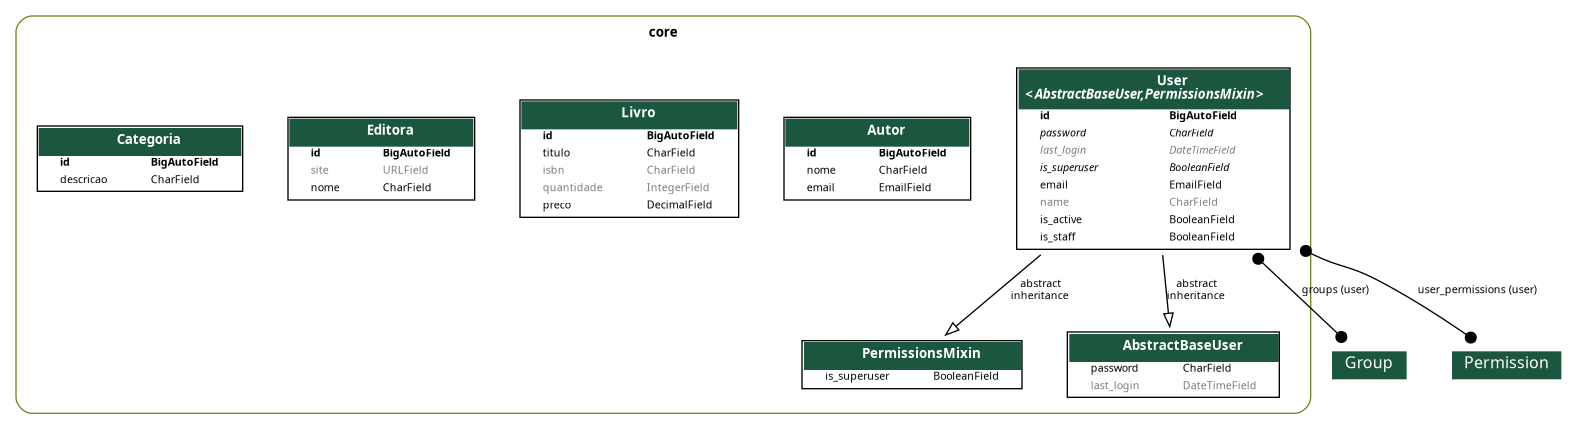
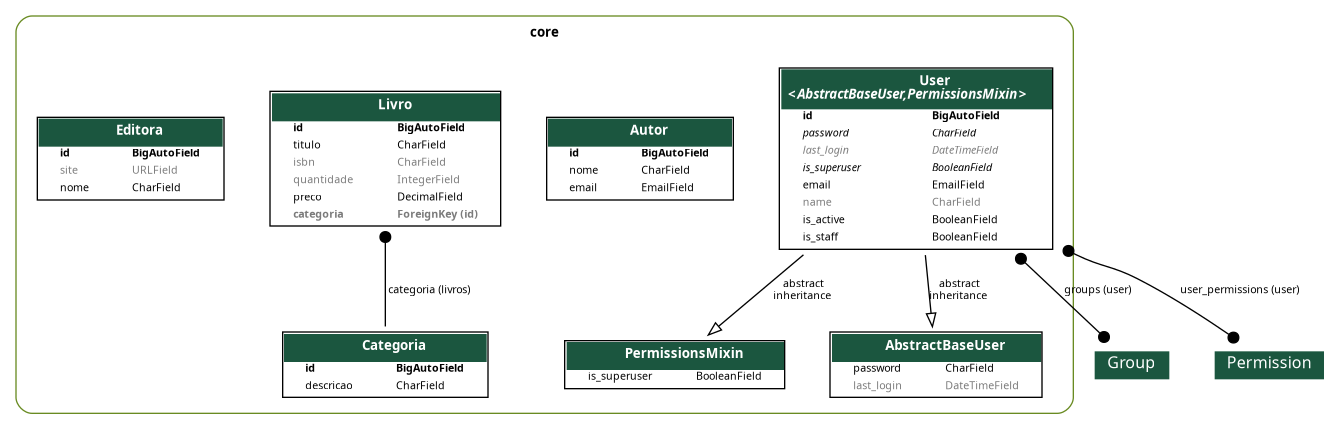
FEAT: Relações entre Livro e Categoria/Editora

diff --git a/core/models/livro.py b/core/models/livro.py
@@ -1,11 +1,28 @@
 from django.db import models
 
+from .categoria import Categoria
+from .editora import Editora
+
 
 class Livro(models.Model):
     titulo = models.CharField(max_length=255)
     isbn = models.CharField(max_length=32, null=True, blank=True)
     quantidade = models.IntegerField(default=0, null=True, blank=True)
     preco = models.DecimalField(max_digits=7, decimal_places=2, default=0)
+    categoria = models.ForeignKey(
+        Categoria,
+        on_delete=models.PROTECT,
+        related_name='livros',
+        null=True,
+        blank=True,
+    )
+    editora = models.ForeignKey(
+        Editora,
+        on_delete=models.PROTECT,
+        related_name='livros',
+        null=True,
+        blank=True,
+    )
 
     def __str__(self):
-        return f'{self.titulo} - {self.quantidade}'
+        return f'{self.titulo} - {self.categoria}'

diff --git a/core/migrations/0007_livro_categoria.py b/core/migrations/0007_livro_categoria.py
@@ -1,0 +1,19 @@
+# Generated by Django 5.2.12 on 2026-03-17 12:18
+
+import django.db.models.deletion
+from django.db import migrations, models
+
+
+class Migration(migrations.Migration):
+
+    dependencies = [
+        ('core', '0006_autor_categoria_editora_livro'),
+    ]
+
+    operations = [
+        migrations.AddField(
+            model_name='livro',
+            name='categoria',
+            field=models.ForeignKey(blank=True, null=True, on_delete=django.db.models.deletion.PROTECT, related_name='livros', to='core.categoria'),
+        ),
+    ]
